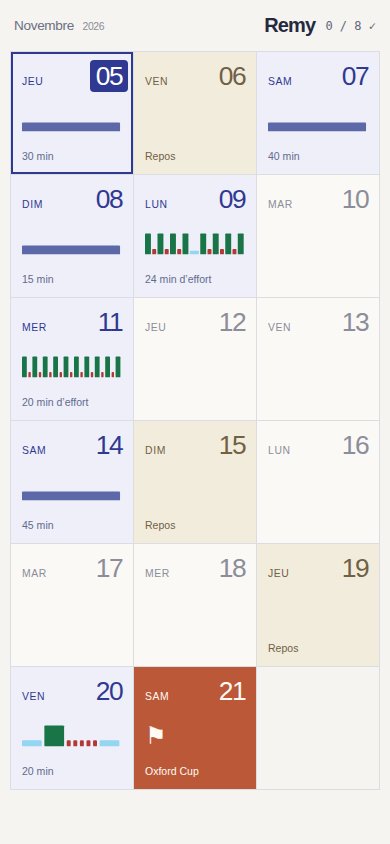
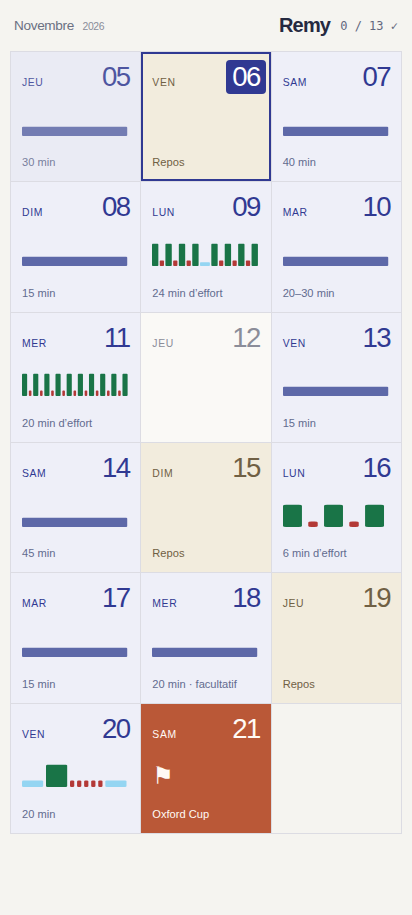
Complète les séances, les consignes et les minutes facultatives

diff --git a/app.js b/app.js
@@ -85,8 +85,8 @@ function renderDays() {
   for(const day of data.days) {
     const done=!!completed[day.date],w=day.workout,type=w?.type;
     const total=type==='steps'?buildPhases(w).reduce((n,p)=>n+(p.seconds||0),0):null;
-    const label=type==='race'?'Oxford Cup':day.rest?'Repos':day.effortMinutes?`${day.effortMinutes} min d’effort`:w?.durationSeconds?`${w.durationSeconds/60} min`:total?`${total/60} min`:'';
-    html+=`<button type="button" class="day-button ${day.status} ${type==='race'?'race':''} ${w?'has-workout':''} ${day.rest?'rest':''} ${done?'completed':''}" data-day="${day.date}" aria-haspopup="dialog" aria-label="${escape(dayFormat.format(date(day.date))+' : '+day.title+(w?done?', séance faite':', séance à faire':''))}"><span class="day-top"><span class="day-name">${escape(weekday.format(date(day.date)).replace('.',''))}</span><span class="day-number">${String(date(day.date).getDate()).padStart(2,'0')}</span></span>${workoutGraph(day)}<span class="day-short">${escape(label)}</span>${done?'<span class="day-marker" aria-hidden="true">✓</span>':''}${type==='race'?'<span class="race-flag" aria-hidden="true">⚑</span>':''}</button>`;
+    const label=type==='race'?'Oxford Cup':day.rest?'Repos':day.effortMinutes?`${day.effortMinutes} min d’effort`:w?.durationSeconds?`${w.optionalAfterSeconds?w.optionalAfterSeconds/60+'–':''}${w.durationSeconds/60} min`:total?`${total/60} min`:'';
+    html+=`<button type="button" class="day-button ${day.status} ${type==='race'?'race':''} ${w?'has-workout':''} ${day.rest?'rest':''} ${done?'completed':''}" data-day="${day.date}" aria-haspopup="dialog" aria-label="${escape(dayFormat.format(date(day.date))+' : '+day.title+(day.optional?', facultatif':'')+(w?done?', séance faite':', séance à faire':''))}"><span class="day-top"><span class="day-name">${escape(weekday.format(date(day.date)).replace('.',''))}</span><span class="day-number">${String(date(day.date).getDate()).padStart(2,'0')}</span></span>${workoutGraph(day)}<span class="day-short">${escape(label+(day.optional?' · facultatif':''))}</span>${done?'<span class="day-marker" aria-hidden="true">✓</span>':''}${type==='race'?'<span class="race-flag" aria-hidden="true">⚑</span>':''}</button>`;
   }
   $('days').innerHTML=html;refreshCalendarDates();
   const count=data.days.filter(d=>d.workout&&completed[d.date]).length,total=data.days.filter(d=>d.workout).length;
@@ -96,20 +96,21 @@ function renderDays() {
 function outline(day) {
   const w = day.workout;
   if (!w) return '';
-  if(w.type==='repeats' && day.warmupRecommendation) return `<div class="session-plan"><p class="recommendation">Échauffement <strong>${escape(day.warmupRecommendation)}</strong><small>recommandé · chrono libre</small></p><p class="summary">${escape(day.summary)}</p>${workoutGraph(day,true)}<p class="graph-caption">${w.blocks} blocs · ${w.reps} efforts par bloc · ${day.effortMinutes} min d’effort</p><p class="detail-note">Pause libre entre les blocs. Maintiens le bouton 3 s quand tu es prêt à repartir.</p><p class="recommendation">Retour au calme <strong>${escape(day.cooldownRecommendation)}</strong><small>recommandé · chrono libre</small></p></div>`;
+  if(w.type==='repeats' && day.warmupRecommendation) return `<div class="session-plan"><p class="recommendation">Échauffement <strong>${escape(day.warmupRecommendation)}</strong><small>recommandé · chrono libre</small></p><p class="summary">${escape(day.summary)}</p>${workoutGraph(day,true)}<p class="graph-caption">${w.blocks>1?`${w.blocks} blocs · ${w.reps} efforts par bloc`:`${w.reps} efforts`} · ${day.effortMinutes} min d’effort</p>${w.blocks>1?'<p class="detail-note">Pause libre entre les blocs. Maintiens le bouton 3 s quand tu es prêt à repartir.</p>':''}<p class="recommendation">Retour au calme <strong>${escape(day.cooldownRecommendation)}</strong><small>recommandé · chrono libre</small></p></div>`;
+  if(w.type==='repeats' && w.blocks===1) return `<div class="session-plan"><p class="recommendation">Échauffement <strong>Chrono libre</strong><small>Commence doucement. Quand tu es prêt, maintiens « Commencer les intervalles » pendant 3 secondes.</small></p><p class="summary">${escape(day.summary)}</p>${workoutGraph(day,true)}<p class="graph-caption">${w.reps} efforts · ${day.effortMinutes} min d’effort</p><p class="recommendation">Retour au calme <strong>Chrono libre</strong><small>Ralentis doucement. Déverrouille les commandes, puis touche « Stop · résumé » quand tu as terminé.</small></p></div>`;
   let rows;
   if (w.type === 'repeats') rows = [['Échauffement',w.warmupSeconds == null ? 'Manuel' : formatTime(w.warmupSeconds*1000)], [`${w.blocks > 1 ? w.blocks + ' blocs de ' : ''}${w.reps} × ${w.effortSeconds/60} min`,`${day.effortMinutes} min d’effort`], ['Entre les répétitions',`${w.recoverySeconds/60} min`], ...(w.blocks > 1 ? [['Entre les blocs',w.betweenBlocksSeconds == null ? 'Manuel' : formatTime(w.betweenBlocksSeconds*1000)]] : []), ['Retour au calme',w.cooldownSeconds == null ? 'Manuel' : formatTime(w.cooldownSeconds*1000)]];
-  else if (w.type === 'jog') rows = [['Jog',`${w.durationSeconds/60} min`],['Après le compte à rebours','Temps supplémentaire libre']];
+  else if (w.type === 'jog') rows = [[w.zone?`Jog · ${w.zone}`:'Jog',`${w.optionalAfterSeconds?w.optionalAfterSeconds/60+'–':''}${w.durationSeconds/60} min`],...(w.optionalAfterSeconds?[[`Après ${w.optionalAfterSeconds/60} min`,'Tu peux arrêter selon ton état']]:[]),['Après le compte à rebours','Temps supplémentaire libre']];
   else if (w.type === 'easy-strides') rows = [...(w.warmup?[['Échauffement','Libre · départ manuel']]:[]),['Jog',`${w.durationSeconds/60} min`],['Strides',`${w.strideCount} × ${w.strideSeconds} s`],['Récupération','Complète, libre']];
   else if (w.type === 'steps') rows = w.steps.map(s=>s.repeat?[`${s.repeat} accélérations`,s.steps.map(p=>p.seconds==null?'Manuel':formatTime(p.seconds*1000)).join(' / ')]:[`${s.label}${s.zone?' · '+s.zone:''}`,s.seconds==null?'Manuel':formatTime(s.seconds*1000)]);
   else rows = [['Distance','4,8 à 5 km'],['Départ','Horaire à confirmer']];
-  return `${workoutGraph(day,true)}<ol class="session-outline">${rows.map(([a,b])=>`<li><span>${escape(a)}</span><strong>${escape(b)}</strong></li>`).join('')}</ol>`;
+  return `${workoutGraph(day,true)}<ol class="session-outline">${rows.map(([a,b])=>`<li${a==='Strides'&&day.strideInstructions?' class="has-instructions"':''}><span>${escape(a)}</span><strong>${escape(b)}</strong>${a==='Strides'&&day.strideInstructions?`<p class="stride-instructions">${escape(day.strideInstructions)}</p>`:''}</li>`).join('')}</ol>`;
 }
 function renderDetail() {
   const d = selected;
   const saved = readSaved();
   const canResume = saved?.date === d.date && saved?.signature === signature(d) && validSnapshot(saved.state,buildPhases(d.workout)) && !saved.state.done;
-  $('day-detail').innerHTML = `<div class="detail-top"><span>${escape(dayFormat.format(date(d.date)))}</span>${statusNames[d.status]?`<span class="badge ${d.status}">${statusNames[d.status]}</span>`:''}</div><h2 id="detail-title">${escape(d.title)}</h2>${d.warmupRecommendation?'':`<p class="summary">${escape(d.summary)}</p>`}${outline(d)}${(d.notes||[]).map(n=>`<p class="detail-note">${escape(n)}</p>`).join('')}${d.workout ? `<button type="button" id="open-timer" class="primary">${canResume ? 'Retrouver ma séance' : 'Ouvrir le chronomètre'} <span aria-hidden="true">↗</span></button>` : ''}`;
+  $('day-detail').innerHTML = `<div class="detail-top"><span>${escape(dayFormat.format(date(d.date)))}</span>${statusNames[d.status]?`<span class="badge ${d.optional?'optional':d.status}">${d.optional?'Facultatif':statusNames[d.status]}</span>`:''}</div><h2 id="detail-title">${escape(d.title)}</h2>${d.warmupRecommendation||(d.workout?.type==='repeats'&&d.workout.blocks===1)?'':`<p class="summary">${escape(d.summary)}</p>`}${outline(d)}${(d.notes||[]).map(n=>`<p class="detail-note">${escape(n)}</p>`).join('')}${d.workout ? `<button type="button" id="open-timer" class="primary">${canResume ? 'Retrouver ma séance' : 'Ouvrir le chronomètre'} <span aria-hidden="true">↗</span></button>` : ''}`;
   $('open-timer')?.addEventListener('click',()=>{location.hash=`chrono=${d.date}`;});
   if(d.workout) {
     const button=document.createElement('button');button.type='button';button.className=`mark-done ${completed[d.date]?'is-done':''}`;button.id='mark-done';button.setAttribute('aria-pressed',String(!!completed[d.date]));button.textContent=completed[d.date]?'✓ Séance faite · annuler':'○ Marquer la séance faite';button.addEventListener('click',()=>markDone(d));$('day-detail').append(button);
@@ -215,16 +216,17 @@ function renderTimer() {
   if(s.stridesCompleted>completedBefore&&!document.hidden&&!matchMedia('(prefers-reduced-motion: reduce)').matches)
     $('stride-flash').animate([{opacity:0},{opacity:.14},{opacity:0}],{duration:1000,iterations:2});
   const strideActive=s.strideStart!=null,remaining=timer.remainingMs();
-  const label=s.done?'Résumé':p.label,phaseKey=`${s.index}:${strideActive}:${s.done}`;
+  const optional=p.jog&&p.kind!=='overtime'&&activeDay.workout.optionalAfterSeconds!=null&&s.phaseMs>=activeDay.workout.optionalAfterSeconds*1000;
+  const label=s.done?'Résumé':optional?'Jog · portion facultative':p.label,phaseKey=`${s.index}:${strideActive}:${s.done}:${optional}`;
   if(lastPhase!==phaseKey){if(lastPhase)beep();$('phase-announcer').textContent=label;lastPhase=phaseKey;}
-  $('timer-screen').dataset.kind=s.done?'done':p.kind==='overtime'?'overtime':strideActive?'stride':p.kind;
-  $('phase-label').textContent=label;$('phase-zone').textContent=p.zone||'';
-  $('phase-detail').textContent=s.done?'Séance arrêtée':p.kind==='warmup'&&activeDay.warmupRecommendation?`${activeDay.warmupRecommendation} recommandées`:p.kind==='cooldown'&&activeDay.cooldownRecommendation?`${activeDay.cooldownRecommendation} recommandées`:p.detail||'';
+  $('timer-screen').dataset.kind=s.done?'done':p.kind==='overtime'?'overtime':strideActive?'stride':optional?'optional':p.kind;
+  $('phase-label').textContent=label;$('phase-zone').textContent=p.zone||(p.kind==='effort'?activeDay.workout.effortCue:p.kind==='recovery'?activeDay.workout.recoveryCue:activeDay.workout.zone)||'';
+  $('phase-detail').textContent=s.done?'Séance arrêtée':optional?`${activeDay.workout.optionalAfterSeconds/60} minutes faites · tu peux arrêter ici.`:p.kind==='warmup'&&activeDay.warmupRecommendation?`${activeDay.warmupRecommendation} recommandées`:p.kind==='cooldown'&&activeDay.cooldownRecommendation?`${activeDay.cooldownRecommendation} recommandées`:p.detail||'';
   $('time').textContent=s.done?formatTime(s.totalMs):formatTime(remaining==null?s.phaseMs:remaining,remaining!=null);
-  $('time-caption').textContent=s.done?'Temps actif total':p.kind==='overtime'?'Après le temps prévu · Stop quand tu as terminé':remaining==null?'Temps écoulé · arrêt manuel':'Temps restant';
+  $('time-caption').textContent=s.done?'Temps actif total':p.kind==='overtime'?'Après le temps prévu · Stop quand tu as terminé':remaining==null?'Temps écoulé · arrêt manuel':optional?'Temps facultatif restant':'Temps restant';
   $('phase-progress').style.width=s.done?'100%':p.seconds==null?'0%':`${Math.min(100,s.phaseMs/(p.seconds*10))}%`;
   const next=timer.phases[s.index+1];
-  $('up-next').textContent=s.done?'':p.action?'Départ à ton choix · aucun changement automatique':p.kind==='overtime'?'Le chrono continue jusqu’à Stop.':next?`Ensuite : ${next.label}${next.seconds==null?' · libre':' · '+formatTime(next.seconds*1000)}`:'';
+  $('up-next').textContent=s.done?'':optional?'Déverrouille, puis touche Stop · résumé quand tu as terminé.':p.action?'Départ à ton choix · aucun changement automatique':p.kind==='overtime'?'Le chrono continue jusqu’à Stop.':next?`Ensuite : ${next.label}${next.seconds==null?' · libre':' · '+formatTime(next.seconds*1000)}`:'';
   $('session-total').textContent=s.done?'':`Temps actif total · ${formatTime(s.totalMs)}${!s.running?' · en pause':''}`;
   $('play-pause').textContent=s.running?'Pause':s.started?'Reprendre':'Démarrer';$('play-pause').disabled=s.done||locked;$('play-pause').hidden=s.done;
   $('next-phase').hidden=s.done||!p.action||p.seconds!=null;

diff --git a/style.css b/style.css
@@ -79,7 +79,7 @@
   .close-day { position: absolute; right: 12px; top: 8px; width: 44px; height: 44px; min-height: 44px; border: 0; background: transparent; color: #5a607b; font-size: 1.75rem; line-height: 1; }
   .detail-top { display: flex; justify-content: space-between; align-items: center; gap: 12px; margin-top: 9px; font-size: .72rem; color: #656b83; }
   .badge { font-size: .61rem; color: #545d9b; border: 1px solid #d4d7e9; border-radius: 3px; padding: 5px 7px; }
-  .badge.provisional { color: #a24e2d; }
+  .badge.provisional,.badge.optional { color: #a24e2d; }
   .day-detail h2 { font-size: 2rem; font-weight: 500; letter-spacing: -.055em; line-height: 1.12; margin: 25px 0 17px; max-width: 360px; }
   .graph-detail { width:100%; height:65px; max-height:none; margin:22px 0 8px; }
   .graph-caption { font-size:.72rem; color:#626b8f; margin:10px 0; }
@@ -88,6 +88,8 @@
   .summary { font-size: .92rem; line-height: 1.6; color: #61677d; }
   .session-outline { list-style: none; padding: 0; margin: 25px 0; border-top: 1px solid var(--line); }
   .session-outline li { display: flex; justify-content: space-between; align-items: start; gap: 16px; padding: 14px 0; border-bottom: 1px solid var(--line); font-size: .79rem; line-height: 1.5; }
+  .session-outline li.has-instructions { flex-wrap:wrap; row-gap:8px; }
+  .stride-instructions { flex:0 0 100%; color:#61677d; font-size:.78rem; line-height:1.65; }
   .session-outline strong { font-weight: 500; color: #303992; text-align: right; }
   .detail-note { color: #75798a; font-size: .74rem; line-height: 1.7; margin: 13px 0; }
   .day-detail .primary { width: 100%; margin-top: 15px; display: flex; justify-content: space-between; align-items: center; font-size: .87rem; }
@@ -106,7 +108,7 @@
 @layer timer {
   body.timer-open { overflow:hidden; }
   .timer-screen { position:fixed; inset:0; z-index:20; overflow:auto; background:var(--phase-easy); color:#18364a; --phase:#254b65; --timer-ink:#18364a; display:flex; flex-direction:column; min-height:100dvh; padding:max(14px,env(safe-area-inset-top)) max(18px,env(safe-area-inset-right)) max(14px,env(safe-area-inset-bottom)) max(18px,env(safe-area-inset-left)); }
-  .timer-screen[data-kind=warmup],.timer-screen[data-kind=cooldown],.timer-screen[data-kind=overtime],.timer-screen[data-kind=done] { background:var(--phase-neutral); color:#292f38; --phase:#4e5867; --timer-ink:#292f38; }
+  .timer-screen[data-kind=warmup],.timer-screen[data-kind=cooldown],.timer-screen[data-kind=overtime],.timer-screen[data-kind=optional],.timer-screen[data-kind=done] { background:var(--phase-neutral); color:#292f38; --phase:#4e5867; --timer-ink:#292f38; }
   .timer-screen[data-kind=effort],.timer-screen[data-kind=stride] { background:var(--phase-effort); color:#fff; --phase:#e0f3e7; --timer-ink:#fff; }
   .timer-screen[data-kind=recovery] { background:var(--phase-recovery); color:#fff; --phase:#ffe7e1; --timer-ink:#fff; }
   .timer-screen[data-kind=race] { background:#302f4c; color:#fff; --phase:#e1def6; --timer-ink:#fff; }

diff --git a/mise-a-jour.html b/mise-a-jour.html
@@ -2,7 +2,7 @@
 <html lang="fr-CA">
 <head>
 <meta charset="utf-8"><meta name="viewport" content="width=device-width,initial-scale=1">
-<meta name="remy-build" content="remy-4c278d3569325a4d"><title>Actualiser Remy</title>
+<meta name="remy-build" content="remy-3d17914cc0459015"><title>Actualiser Remy</title>
 <style>body{margin:0;padding:32px;font:16px/1.6 Arial,sans-serif;background:#f5f4f0;color:#252940}main{max-width:480px;margin:12vh auto}h1{font-size:28px;letter-spacing:-1px}a{color:#303992}p{margin:20px 0}</style>
 </head>
 <body><main><h1>Actualisation de Remy</h1><p id="status" role="status">Recherche de la dernière version… Tes séances faites sont conservées.</p><a href="./">Retour au calendrier</a></main>

diff --git a/index.html b/index.html
@@ -3,7 +3,7 @@
 <head>
   <meta charset="utf-8">
   <meta name="viewport" content="width=device-width, initial-scale=1, viewport-fit=cover">
-  <meta name="remy-build" content="remy-4c278d3569325a4d">
+  <meta name="remy-build" content="remy-3d17914cc0459015">
   <meta name="theme-color" content="#f5f4f0">
   <meta name="description" content="Le carnet de course de Remy. Calendrier et chronomètre pour l’Oxford Cup du 21 novembre 2026.">
   <title>Remy — Calendrier</title>

diff --git a/sw.js b/sw.js
@@ -1,5 +1,5 @@
 // Generated build identity includes this worker and every static resource.
-const VERSION = 'remy-4c278d3569325a4d';
+const VERSION = 'remy-3d17914cc0459015';
 const SCOPE = new URL(self.registration.scope);
 const CACHE = `${VERSION}@${SCOPE.pathname}`;
 const FILES = ['./','./index.html','./mise-a-jour.html','./style.css','./app.js','./engine.js','./schedule.json','./icon.svg','./icon-192.png','./icon-512.png','./manifest.webmanifest'];

diff --git a/docs/verification.md b/docs/verification.md
@@ -4,9 +4,9 @@ Version adaptée après l’essai d’Eric sur Galaxy. Vérifications de cette n
 
 ## Résultats
 
-- **29 tests moteur** : calendrier continu du 5 au 21; prescriptions séparées des 5, 7 et 14; 24 minutes d’effort le 9, 20 le 11, activation de 20 minutes inchangée; échauffements ouverts; pause interblocs libre; pause/reprise; retards d’horodatages; arrêt explicite; temps supplémentaire; strides au-delà de six; distinction lancés/complétés/interrompus; reprise de deux chronos sauvegardés; total réel par phase.
+- **30 tests moteur** : calendrier continu du 5 au 21; prescriptions séparées des 5, 7 et 14; 24 minutes d’effort le 9, 20 le 11, activation de 20 minutes inchangée; échauffements ouverts; pause interblocs libre; pause/reprise; retards d’horodatages; arrêt explicite; temps supplémentaire; strides au-delà de six; distinction lancés/complétés/interrompus; reprise de deux chronos sauvegardés; total réel par phase.
 - **25 parcours navigateur** : calendrier et fiches, suivi local, sous-chemin `/Remy/`, six tailles de fenêtre de 320 à 1 440 px, verrouillage et annulations d’appui, clavier, navigation protégée, phases, vue paysage, activation, rechargement hors ligne, refus des API plein écran/écran éveillé, stockage indisponible et reprise après arrière-plan.
-- **16 parcours mobiles avec événements tactiles Chromium** : grandes cases carrées à 412×915, recommandations et graphique du lundi, maintiens de 3 s indépendants du verrouillage, annulation à 2 999 ms/au déplacement/à l’interruption, maintiens de 1 s, double affichage, pause/reprise/rechargement d’un stride, septième stride autorisé, deux variations légères de luminosité, résumé d’un stride interrompu, temps supplémentaire et franchissement de zéro pendant un stride.
+- **22 parcours mobiles avec événements tactiles Chromium** : grandes cases carrées à 412×915, recommandations et graphique du lundi, maintiens de 3 s indépendants du verrouillage, annulation à 2 999 ms/au déplacement/à l’interruption, maintiens de 1 s, double affichage, pause/reprise/rechargement d’un stride, septième stride autorisé, deux variations légères de luminosité, résumé d’un stride interrompu, temps supplémentaire et franchissement de zéro pendant un stride.
 - Données et cache vérifiés avec `npm run check`; export `dist/` vérifié avec `npm run build`. Les durées d’effort/récupération et la séquence de l’activation du 20 ne changent pas.
 
 Captures : [calendrier](apercu-mobile.png), [fiche du 9](apercu-fiche.png), [chrono](apercu-chrono.png), [échauffement](apercu-echauffement.png), [stride](apercu-stride.png), [résumé](apercu-resume.png), [bureau](apercu-bureau.png). Les coches et totaux des captures appartiennent seulement aux profils de test.
@@ -39,13 +39,19 @@ Les strides sont retirés des graphiques du calendrier et des fiches, y compris 
 
 Le contenu des séances et le moteur restent identiques au commit `0f94bdd`; seul l’identifiant de révision du calendrier passe à `2026-11-06.1`. Les essais tactiles comparent les couleurs calculées des graphiques aux fonds du chrono lors des efforts et récupérations. Les migrations incluent la version publiée `0f94bdd` et vérifient les nouvelles barres, les couleurs et la conservation des coches. Les captures mobiles sont des simulations Chromium, pas des essais physiques sur Galaxy.
 
-## Repos et journée courante — 6 novembre 2026
+## Calendrier et consignes du 6 novembre 2026
 
-Les 6, 15 et 19 sont confirmés comme repos, avec un fond pâle distinct. Les 16–18 restent ouverts; le 18 est en discussion, sans repos ni séance confirmés. Le 15 garde exactement sa prescription précédente. Le 8 contient 15 minutes de jog très facile, ou repos si les jambes sont lourdes; le chrono démarre à 15:00. Aucune autre séance n’est modifiée.
+Repos confirmés les 6, 15 et 19. Le 8 propose 15 min très faciles ou repos si jambes lourdes; le 13, 15 min faciles; le 17, 15 min très faciles confirmées. Le 12 reste ouvert.
 
-Le jour courant utilise `America/Toronto` indépendamment du fuseau du téléphone. Il est identifié par un contour, une date en relief et `aria-current="date"`. Les jours passés sont légèrement estompés, sans être désactivés ni cachés. La mise à jour du repère conserve le focus et les coches; elle se fait chaque minute et au retour sur la page.
+Le 10 propose 20–30 min en Z1 : compte à rebours initial 30:00, bleu ciel jusqu’à 20 min écoulées, puis gris avec 10:00 restantes. Arrêt possible après 20 min; les dix dernières sont facultatives. À zéro, temps supplémentaire ascendant gris jusqu’à Stop. Les tests couvrent le seuil exact, la pause/reprise, le rechargement, l’arrêt anticipé et le résumé.
 
-Les parcours tactiles vérifient les repos et le jog du 8, simulent le passage de minuit à Toronto depuis des navigateurs réglés sur Tokyo et Los Angeles, puis le retour sur la page un autre jour. Ils ouvrent et exécutent une séance passée, sans restriction de navigation. Les migrations incluent le commit publié `d8f2a3d` avec conservation des coches. La révision est `2026-11-06.2`. [Capture du 6 courant selon Toronto](jour-courant-toronto.png), avec une coche fictive du 5 conservée.
+Le 16 conseille 10 min d’échauffement libre, 3 efforts de 2 min à effort 5 km avec seulement deux récupérations de 1 min très facile, puis 5 min de retour au calme libre. Total indicatif 23 min. Les tests vérifient le départ manuel, les trois efforts, les deux récupérations et le retour manuel.
+
+Les fiches des 7 et 14 expliquent sous Strides la répartition libre, la progression sans sprint, le maintien de « Stride · 20 s » une seconde et la récupération jusqu’à respiration régulière. Le 18, marqué facultatif, reprend le même fonctionnement pour 20 min très faciles et 4 strides de 10 s, avec guide adapté et compteur sans plafond. Les essais atteignent 5/4 sans arrêter le jog. Le 11 présente plus clairement son échauffement/retour libres et ses dix efforts avec neuf récupérations. Le programme du 11, le contenu du 9 et l’activation du 20 sont inchangés.
+
+Le jour courant utilise `America/Toronto`, avec son encadré conservé, une date en relief et `aria-current="date"`. Les jours passés sont légèrement estompés, jamais désactivés. Le repère se met à jour chaque minute et au retour sur la page, sans perdre le focus ni les coches. Les tests simulent minuit à Toronto dans des navigateurs réglés sur Tokyo et Los Angeles et exécutent une séance passée.
+
+Les migrations incluent le commit publié `cbb32c4` avec conservation des coches. Révision finale : `2026-11-06.3`. Les captures et les gestes tactiles proviennent de Chromium, sans essai physique sur Galaxy. [Capture du jour courant](jour-courant-toronto.png), [guide des strides du 7](fiche-strides-7.png), [fiche du 11](fiche-intervalles-11.png), [fiche du 16](fiche-intervalles-16.png), [séance facultative du 18](fiche-facultative-18.png), [dix minutes facultatives du 10](chrono-facultatif-10.png).
 
 ## Référence GBoxeur et revue Astra
 

diff --git a/README.md b/README.md
@@ -33,21 +33,26 @@ Le plein écran et le maintien de l’écran éveillé restent à vérifier sur 
 
 ## Séances confirmées
 
-| Date | Séance | Ce qui reste à préciser |
+| Date | Séance | Repères |
 |---|---|---|
-| Jeu. 5 | **30 min de jog** | — |
+| Jeu. 5 | 30 min de jog | — |
 | Ven. 6 | Repos | — |
-| Sam. 7 | **40 min de jog**, avec 6 strides de **20 s** | Récupération libre |
-| Dim. 8 | **15 min de jog très facile**, ou repos si jambes lourdes | — |
-| Lun. 9 | 2 blocs de 4 × 3 min; 2 min entre répétitions; **24 min d’effort** | Échauffement recommandé 10–15 min, retour au calme recommandé 5–10 min; pause entre blocs libre |
-| Mer. 11 | 10 × 2 min; 1 min entre répétitions; **20 min d’effort** | Échauffement et retour au calme |
-| Sam. 14 | **45 min faciles**, incluant 6 strides de 20 s; récupération complète | Échauffement libre avant le départ manuel |
-| Dim. 15 | Repos | — |
+| Sam. 7 | 40 min de jog + 6 strides de 20 s | Déclenchements libres, guide sous Strides |
+| Dim. 8 | 15 min très faciles | Repos si jambes lourdes |
+| Lun. 9 | 2 blocs de 4 × 3 min, 2 min entre efforts | 24 min d’effort; recommandations 10–15 / 5–10 min; pause interblocs libre |
+| Mar. 10 | 20–30 min en Z1 | Arrêt possible après 20 min; les dix dernières sont facultatives |
+| Mer. 11 | 10 × 2 min, 1 min entre efforts | 20 min d’effort; échauffement et retour libres |
+| Ven. 13 | 15 min de jog facile | — |
+| Sam. 14 | 45 min faciles + 6 strides de 20 s | Échauffement libre; guide sous Strides |
+| Dim. 15 | Repos | Inchangé |
+| Lun. 16 | 3 × 2 min à effort 5 km, 1 min très facile entre efforts | Deux récupérations; 10 min d’échauffement et 5 min de retour conseillées, libres; 23 min si suivies |
+| Mar. 17 | 15 min très faciles | Confirmé |
+| Mer. 18 | Facultatif : 20 min très faciles + 4 strides de 10 s | Échauffement libre, maintien 1 s, compteur sans plafond, guide adapté |
 | Jeu. 19 | Repos | — |
-| Ven. 20 | 5 min Z1, 5 min Z3, 5 × (20 s Z4–Z5 + 40 s faciles), 5 min Z1 : **20 min** | Date confirmée par Eric après clarification |
-| Sam. 21 | Oxford Cup; chrono libre | Horaire exact; environ 4,8–5 km |
+| Ven. 20 | 5 min Z1, 5 min Z3, 5 × (20 s Z4–Z5 + 40 s faciles), 5 min Z1 | Activation inchangée de 20 min |
+| Sam. 21 | Oxford Cup, chrono libre | Environ 4,8–5 km; horaire à confirmer |
 
-Les autres journées restent ouvertes, sans séance inventée. Les 16–18 restent en discussion, sans nouvelle séance confirmée. Le 18 peut devenir repos ou un petit jog avec strides; aucune durée ni répétition n’est fixée. Le 19 est confirmé comme repos. Les jogs en zone 1 seront ajoutés par Eric.
+Le 12 reste ouvert, sans séance inventée. Le 10 commence à **30:00** sur fond bleu ciel; à **10:00 restantes**, le fond devient gris et indique la portion facultative. Il peut s’arrêter selon son état dès 20 minutes. À zéro, le chrono continue vers le haut en gris jusqu’à **Stop · résumé**, comme les autres jogs. La pause et la reprise ne comptent pas le temps de pause.
 
 Les strides des samedis **7 et 14 durent 20 secondes**. Le jog du 7 dure **40 minutes**, celui du 14 **45 minutes**. Elles sont incluses dans le compte à rebours du jog. L’objectif reste six, avec des déclenchements supplémentaires permis. Aucun stride n’est lancé automatiquement. L’activation confirmée du 20 conserve exactement ses étapes et ses 20 minutes.
 

diff --git a/docs/seances.md b/docs/seances.md
@@ -5,6 +5,8 @@ Modifier uniquement l’objet du jour concerné dans `schedule.json`. Conserver 
 - `status: "pending"` : journée ouverte (case sans libellé de séance, explication dans la fiche); ne pas ajouter `workout` tant que la séance n’est pas définie.
 - `status: "confirmed"` : séance ou repos confirmé.
 - `status: "provisional"` : hypothèse affichée comme telle; ne l’utiliser que si Eric demande un programme provisoire.
+- `optional: true` sur la journée : séance explicitement facultative, indiquée dans la case et la fiche; conserver son statut confirmé quand Eric a confirmé ce choix.
+- `strideInstructions` sur la journée : explication affichée sous Strides, à adapter à la durée, au nombre et au libellé exact du bouton.
 - `rest: true` : repos; pas de chrono.
 - `title`, `summary`, `notes` : texte de la fiche. Garder les consignes courtes et précises.
 - Les durées sont en **secondes**. `null` signifie **durée inconnue, étape manuelle**; ce n’est pas zéro.
@@ -13,11 +15,15 @@ Modifier uniquement l’objet du jour concerné dans `schedule.json`. Conserver 
 
 Lorsque la durée est confirmée, utiliser `{"type":"jog","durationSeconds":1800}` pour un jog de 30 minutes, comme celui du 5. Copier uniquement la durée réellement donnée par Eric. Le moteur ajoute une phase de temps supplémentaire sans limite; **Stop** termine la séance.
 
+`optionalAfterSeconds: 1200` sur un jog de `durationSeconds: 1800` signifie 20–30 minutes : le compte à rebours commence à 30:00 et devient gris après 20 minutes actives. Le seuil ne termine jamais la séance; à zéro, le temps supplémentaire reste actif. `zone: "Z1"` affiche la zone du jog. Ne fixer ce seuil que sur instruction d’Eric.
+
 Pour un jog sans durée définie, une étape `steps` avec `seconds: null` compte vers le haut jusqu’à Stop. Ne jamais remplacer une durée inconnue par zéro.
 
 ## Répétitions
 
 `repeats` utilise `blocks`, `reps`, `effortSeconds`, `recoverySeconds` et `betweenBlocksSeconds`. L’échauffement et le retour au calme restent ascendants et manuels. Les anciens champs `warmupSeconds` et `cooldownSeconds` ne déclenchent pas de transition automatique. Les recommandations de durée se placent dans `warmupRecommendation` et `cooldownRecommendation` sur la fiche, sans imposer de compte à rebours. La récupération entre répétitions est ajoutée seulement entre deux efforts d’un même bloc. La récupération entre blocs est une seule étape distincte. Aucune récupération chronométrée n’est ajoutée après le dernier effort, avant le retour au calme.
+
+`effortCue` et `recoveryCue` peuvent préciser le repère affiché pendant les phases, comme « Effort 5 km » et « Très facile » le 16, sans modifier les durées.
 
 Si `effortMinutes` est présent dans la fiche, le contrôle vérifie qu’il correspond au total des efforts calculé. Préciser une durée manquante dans les données **et** corriger la description et les notes correspondantes.
 

diff --git a/AGENTS.md b/AGENTS.md
@@ -7,7 +7,11 @@ Projet statique indépendant pour Remy. Lire README.md et docs/seances.md avant 
 - Graphiques : aucun stride représenté, même dans les étapes de l’activation; conserver les descriptions et chronos. Les phases d’intervalles représentées partagent exactement les couleurs du chrono. Cette demande remplace l’interdiction initiale du vert à l’accueil.
 - Français québécois, langage simple : jog facile, récupération, répétitions, accélérations.
 - Activation confirmée vendredi 20 novembre 2026; course samedi 21. La clarification du 5 novembre remplace l’ambiguïté antérieure.
-- Repos confirmés les 6, 15 et 19 novembre. Les 16–18 restent ouverts; le 18 est en discussion, sans repos ni séance confirmés. Le 8 : 15 min de jog très facile, repos si jambes lourdes. Jour courant selon America/Toronto, jours passés légèrement estompés mais toujours consultables.
+- Dernières décisions du 6 novembre : repos les 6, 15 et 19; le 8, 15 min très faciles ou repos si jambes lourdes; le 13, 15 min faciles; le 17, 15 min très faciles confirmées.
+- Le 10 : jog Z1 20–30 min, chrono 30:00 bleu ciel puis gris après 20 min. Les 10 dernières minutes sont facultatives; aucun arrêt automatique, temps supplémentaire puis résumé au Stop.
+- Le 16 : échauffement conseillé 10 min mais libre, 3 × 2 min à effort 5 km, seulement 2 récupérations de 1 min très facile, retour conseillé 5 min mais libre; total indicatif 23 min. Le 18 : facultatif, 20 min très faciles et 4 strides de 10 s, chrono/maintien/compteur existants. Le 20 reste inchangé.
+- Explications sous Strides les 7, 14 et 18, adaptées aux 40/45/20 min et 6×20/6×20/4×10 s : répartition libre, vitesse contrôlée sans sprint, maintien du bouton 1 s, récupération jusqu’à respiration régulière. Le 11 a une fiche plus claire avec échauffement/retour libres; son programme et le contenu du 9 restent inchangés.
+- Jour courant selon America/Toronto, encadré conservé; jours passés légèrement estompés mais toujours consultables.
 - Garder les données locales au navigateur et le fonctionnement hors ligne. Pas de compte ni de synchronisation implicite.
 - Ajustements Galaxy autorisés : calendrier du 5 au 21, grandes cases carrées; chrono gris/bleu ciel/vert/rouge selon phase. Recommandations du 9 : échauffement 10–15 min et retour au calme 5–10 min, sans transition automatique. Correction d’Eric : les strides des 7 et 14 durent tous 20 s; conserver 40 min le 7 et 45 min le 14, objectif six.
 - Après toute modification des fichiers du site à la racine, lancer npm run prepare:offline, npm test et npm run check. Pour un changement du chrono ou de navigation, lancer les essais navigateur et tactiles avec le serveur local. Pour le cache, lancer aussi les migrations avec npm run test:update.
